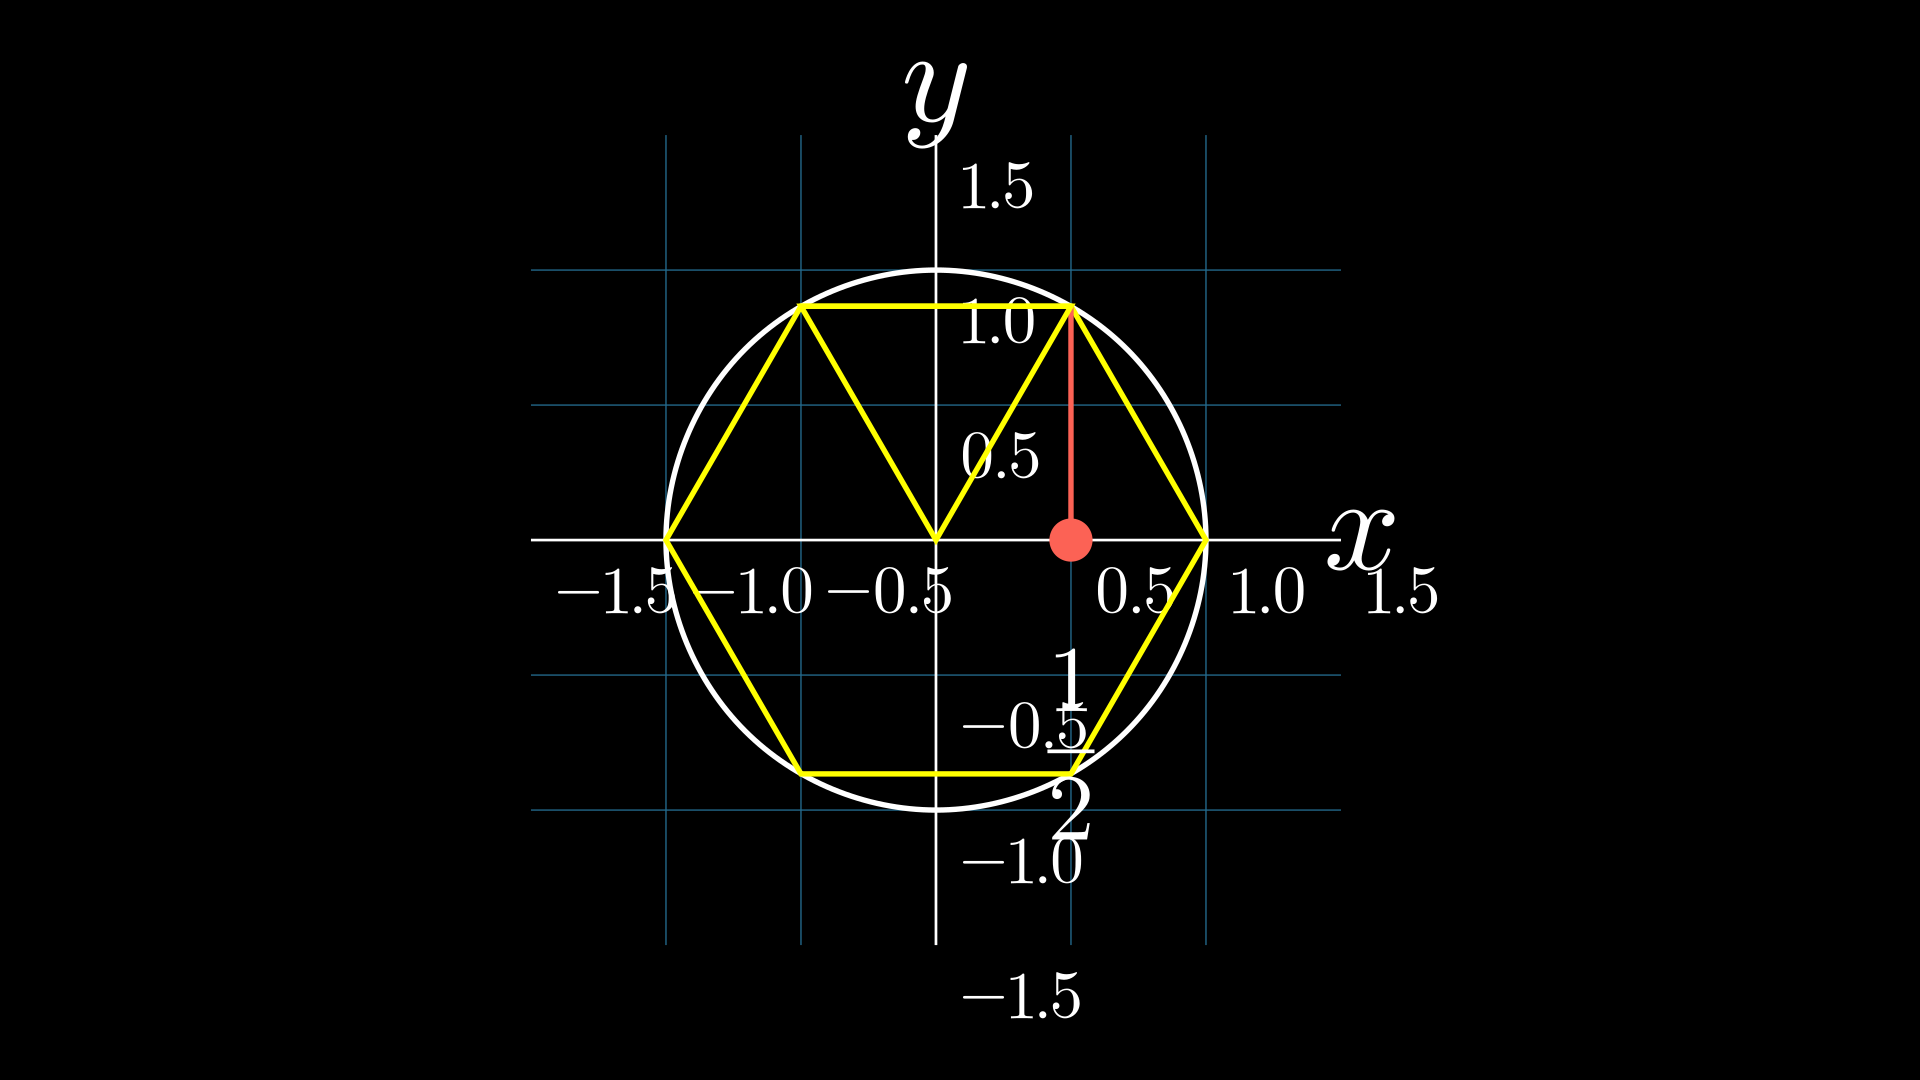
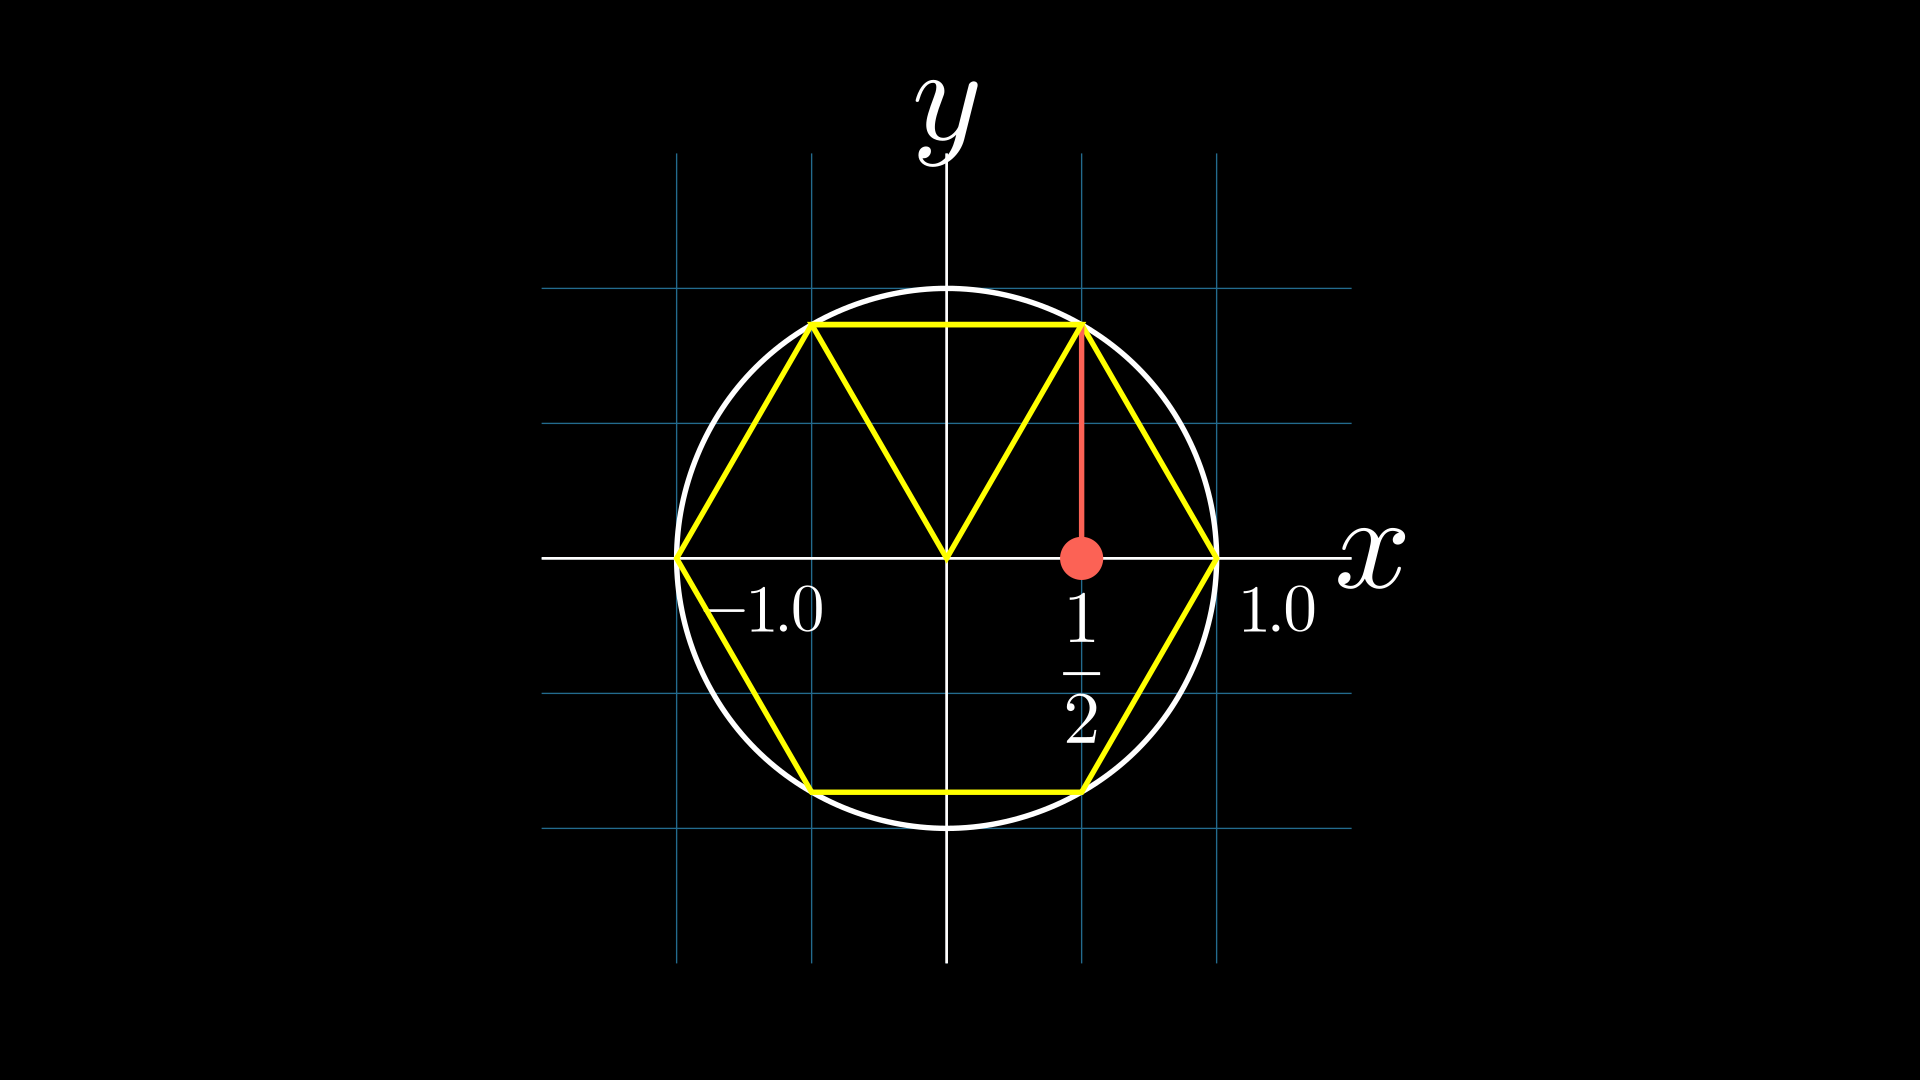
Refactor InscribedTriangles scene for improved clarity and aesthetics

diff --git a/src/34.py b/src/34.py
@@ -1,5 +1,6 @@
 from manim import *
 
+
 class InscribedTriangles(Scene):
     def construct(self):
         # vgroup
@@ -8,9 +9,9 @@ class InscribedTriangles(Scene):
         axes = NumberPlane(
             x_range=[-1.5, 1.5, 0.5],
             y_range=[-1.5, 1.5, 0.5],
-            background_line_style={"stroke_color": BLUE_E, "stroke_width": 1}
+            background_line_style={"stroke_color": BLUE_E, "stroke_width": 1},
         )
-        axes.add_coordinates()
+        axes.add_coordinates(range(-1, 2), [])
         vgroup.add(axes)
 
         # Draw the unit circle
@@ -22,24 +23,28 @@ class InscribedTriangles(Scene):
         vgroup.add(hexagon)
 
         # Label the midpoint on the x-axis
-        midpoint_label = MathTex(r"\frac{1}{2}").next_to([0.5, 0, 0], DOWN).scale(0.7)
+        midpoint_label = (
+            MathTex(r"\frac{1}{2}").next_to([0.5, 0, 0], DOWN, buff=-0.1).scale(0.55)
+        )
         midpoint_dot = Dot(point=[0.5, 0, 0], color=RED)
         vgroup.add(midpoint_label, midpoint_dot)
-        
+
         # Draw a line from the midpoint to the top of the hexagon
-        line = Line(start=[0.5, 0, 0], end=[0.5, np.sqrt(3)/2, 0], color=RED)
+        line = Line(start=[0.5, 0, 0], end=[0.5, np.sqrt(3) / 2, 0], color=RED)
         vgroup.add(line)
-        
+
         # Add an upside down triangle touching 60 and 120 degrees
-        triangle = Polygon([-0.5, np.sqrt(3)/2, 0], [0.5, np.sqrt(3)/2, 0], [0, 0, 0], color=YELLOW)
+        triangle = Polygon(
+            [-0.5, np.sqrt(3) / 2, 0], [0.5, np.sqrt(3) / 2, 0], [0, 0, 0], color=YELLOW
+        )
         vgroup.add(triangle)
 
         # Add x and y labels
         x_label = MathTex("x").next_to(axes.coords_to_point(1.2, 0), RIGHT)
         y_label = MathTex("y").next_to(axes.coords_to_point(0, 1.2), UP)
         vgroup.add(x_label, y_label)
-        
+
         # Zoom in
         vgroup.scale(2)
-        
+
         self.add(vgroup)
